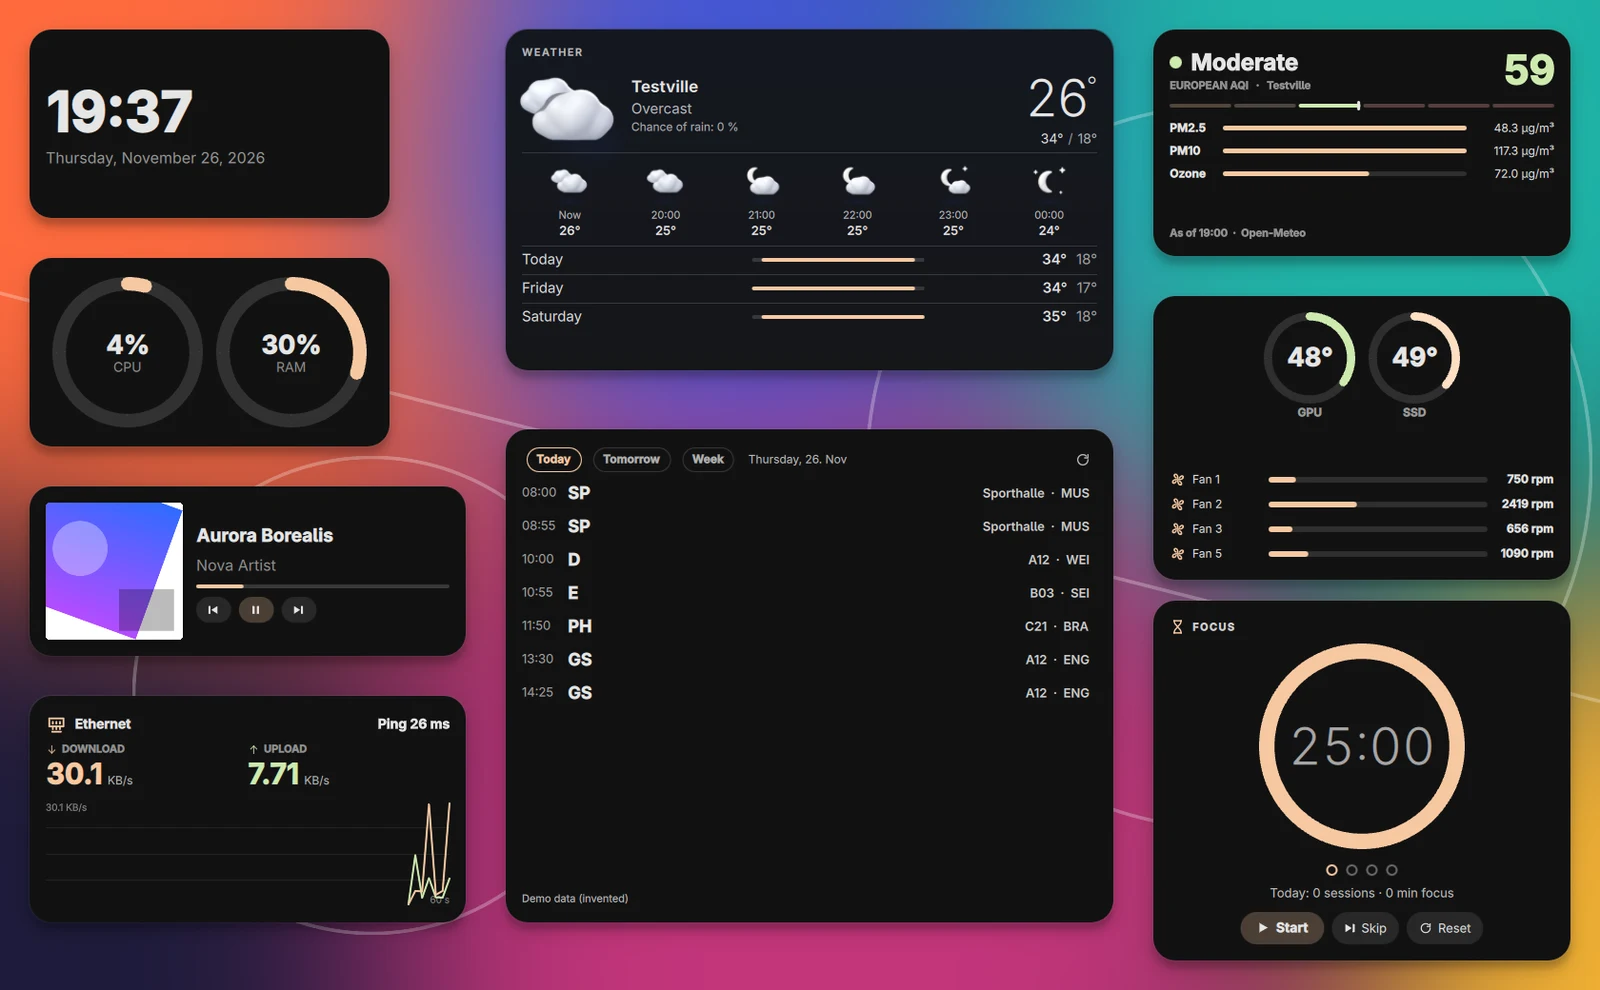
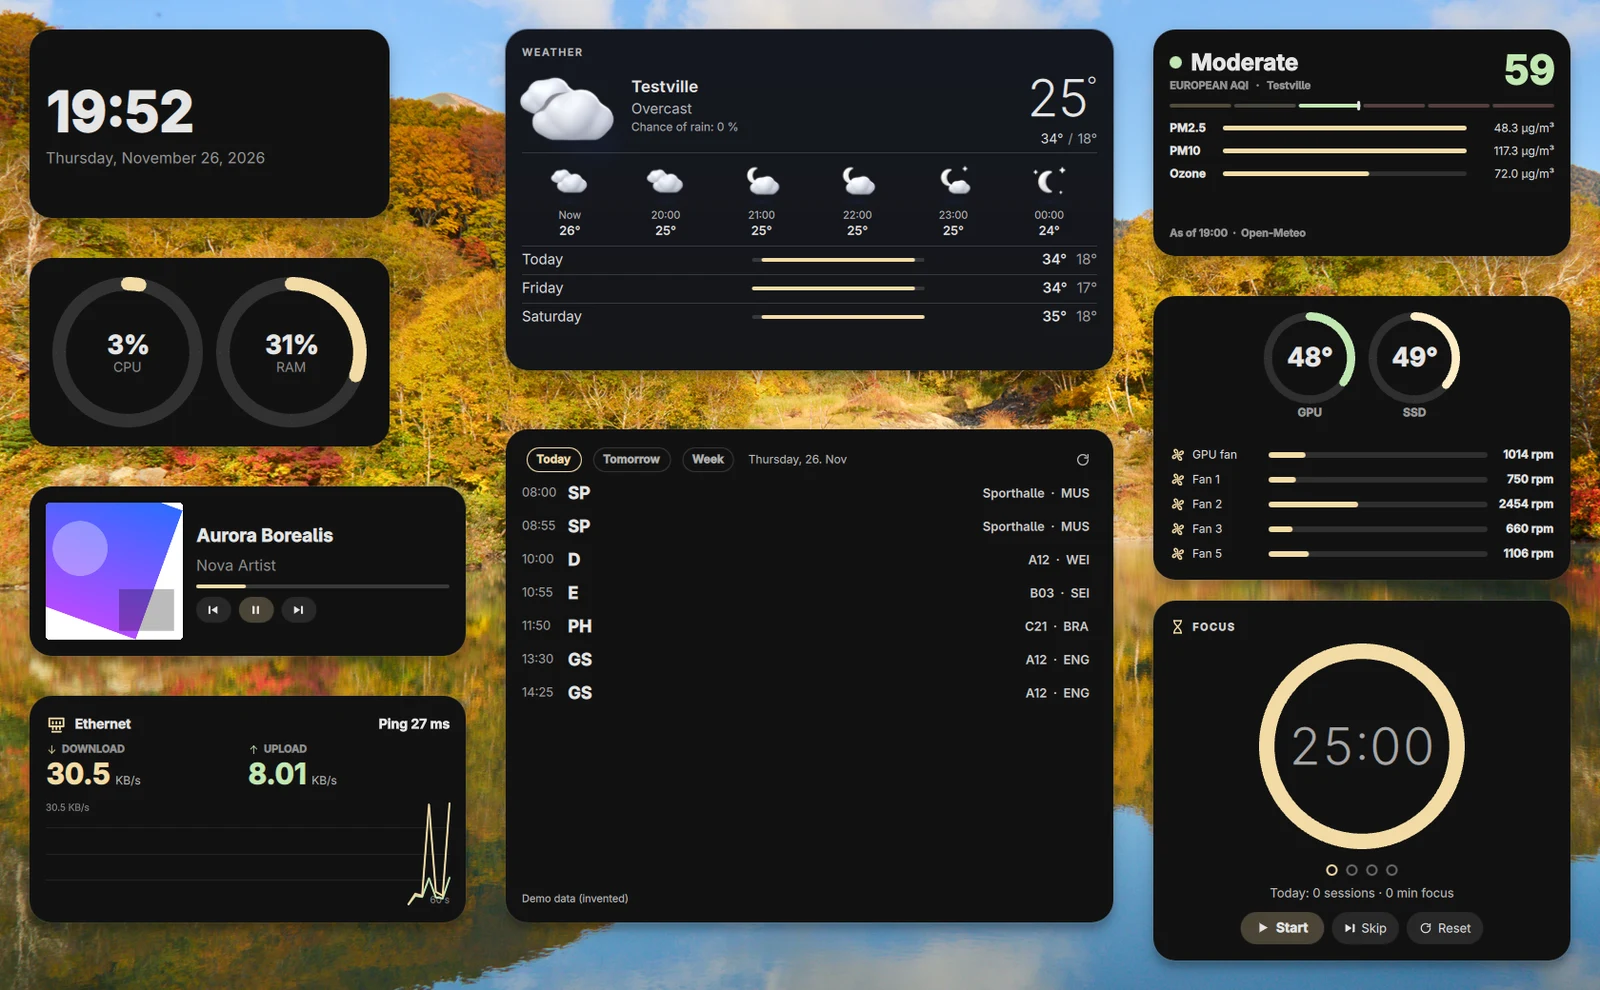
README: new screenshots on a CC0 nature wallpaper

diff --git a/README.md b/README.md
@@ -32,7 +32,7 @@ with colours that follow your wallpaper or your shell. Built with Quickshell.
 
 ![Solid](docs/images/stil-solid.webp)
 
-<sub>Demo data and a self-made wallpaper.</sub>
+<sub>Demo data. Wallpaper: <a href="https://commons.wikimedia.org/wiki/File:Hakkoda_Mountains,_Part_II-_Foothills_-_Hakkoda6929.jpg">Hakkoda Mountains</a> by lumoplank, CC0.</sub>
 
 ## Installation
 
